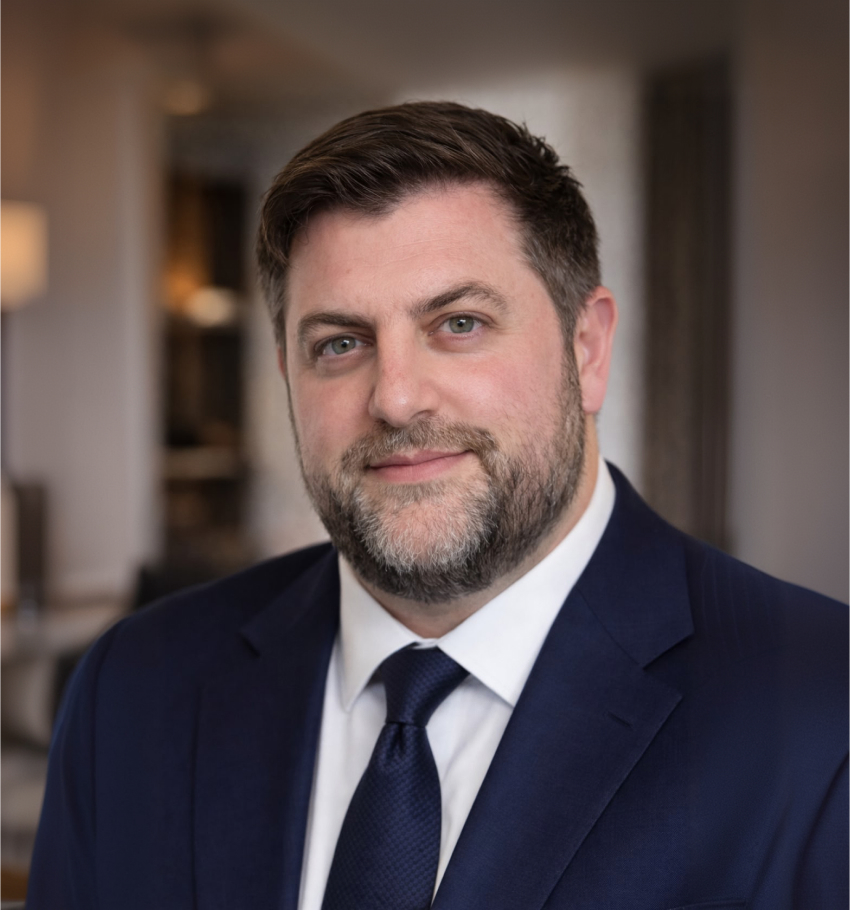
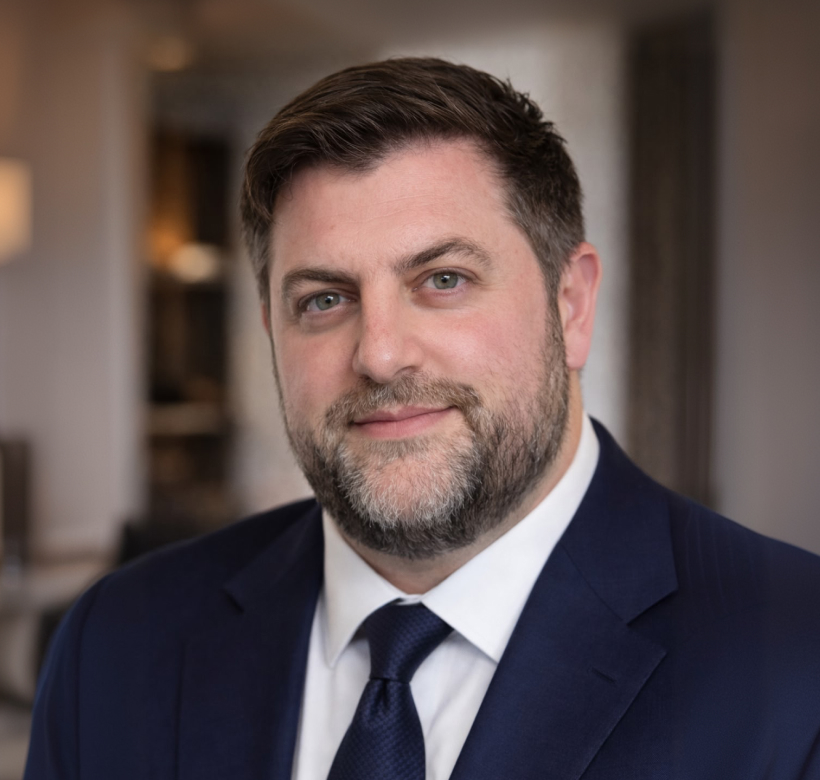
Fix leadership image scaling

diff --git a/components/sections/LeadershipSection.tsx b/components/sections/LeadershipSection.tsx
@@ -1,19 +1,11 @@
 import Image from "next/image";
 
-interface DesktopPlacement {
-  x: number; // px from Figma (negative = extends beyond container left/top)
-  y: number;
-  w: number; // image width at 1x
-  h: number; // image height at 1x
-}
-
 interface Leader {
   name: string;
   role: string;
   image: string;
   bio?: string;
   cropClass: string;       // object-position class for mobile/tablet fill approach
-  desktop: DesktopPlacement | null; // exact Figma placement at desktop; null = fill
 }
 
 const leaders: Leader[] = [
@@ -23,7 +15,6 @@ const leaders: Leader[] = [
     image: "/images/home/leader-vincent.jpg",
     bio: "Vincent brings over 40 years of experience across executive leadership, governance, private banking, acquisitions, and restructuring. Having served as CEO and board member for major financial and real estate institutions across Europe and the Middle East, he provides MSS with seasoned strategic direction and institutional oversight.",
     cropClass: "[object-position:50%_20%]",
-    desktop: { x: -1, y: -14, w: 417, h: 468 },
   },
   {
     name: "Husnain Nasir",
@@ -31,82 +22,55 @@ const leaders: Leader[] = [
     image: "/images/home/leader-husnain.jpg",
     bio: "Husnain brings over 25 years of experience across fintech, enterprise solutions, branchless banking, and telecom. With executive leadership roles tied to major digital finance and transformation initiatives in Pakistan, UAE, UK and Europe, he contributes deep expertise in strategy and investments.",
     cropClass: "leader-husnain-crop",
-    desktop: { x: -2, y: -134, w: 555, h: 740 },
   },
   {
     name: "Marc Lanz",
     role: "Head of Operations",
     image: "/images/home/leader-marc.jpg",
     cropClass: "[object-position:50%_45%]",
-    desktop: { x: -8, y: -22, w: 425, h: 455 },
   },
   {
     name: "Sandra Schaad",
     role: "Head of Compliance",
     image: "/images/home/leader-sandra.jpg",
     cropClass: "object-center",
-    desktop: null, // frame export already cropped to container dimensions
   },
 ];
 
 function LeaderCard({ leader }: { leader: Leader }) {
   return (
     <>
-      {/* Mobile + Tablet (< 1024px) — same wrapper-div placement as desktop; container clips */}
-      <div className="relative bg-[#0B1738] overflow-hidden h-[340px] lg:hidden">
-        {leader.desktop ? (
-          <div
-            style={{
-              position: "absolute",
-              left: `${leader.desktop.x}px`,
-              top: `${leader.desktop.y}px`,
-              width: `${leader.desktop.w}px`,
-              height: `${leader.desktop.h}px`,
-            }}
-          >
-            <Image fill src={leader.image} alt={leader.name} sizes={`${leader.desktop.w}px`} />
-          </div>
-        ) : (
-          <Image
-            fill
-            src={leader.image}
-            alt={leader.name}
-            className={`object-cover ${leader.cropClass}`}
-            sizes="(max-width: 768px) calc(100vw - 40px), calc(50vw - 60px)"
-          />
-        )}
+      {/* Mobile (< 768px): fluid card width, locked 410:390 image ratio, no stretching */}
+      <div className="relative bg-[#0B1738] overflow-hidden aspect-[41/39] md:hidden">
+        <Image
+          fill
+          src={leader.image}
+          alt={leader.name}
+          className={`object-cover ${leader.cropClass}`}
+          sizes="(max-width: 767px) min(calc(100vw - 40px), 420px)"
+        />
       </div>
 
-      {/* Desktop (≥ 1024px): exact Figma pixel placement
-          Wrapper div is positioned at the Figma x/y with Figma w/h.
-          fill Image fills that wrapper 100×100%. Container clips to frame. */}
+      {/* Tablet (768px–1023px): fixed card width, image fills a fixed frame */}
+      <div className="relative bg-[#0B1738] overflow-hidden h-[340px] hidden md:block lg:hidden">
+        <Image
+          fill
+          src={leader.image}
+          alt={leader.name}
+          className={`object-cover ${leader.cropClass}`}
+          sizes="320px"
+        />
+      </div>
+
+      {/* Desktop (≥ 1024px): fixed card width, image fills a fixed frame */}
       <div className="relative bg-[#0B1738] overflow-hidden h-[390px] hidden lg:block">
-        {leader.desktop ? (
-          <div
-            style={{
-              position: "absolute",
-              left: `${leader.desktop.x}px`,
-              top: `${leader.desktop.y}px`,
-              width: `${leader.desktop.w}px`,
-              height: `${leader.desktop.h}px`,
-            }}
-          >
-            <Image
-              fill
-              src={leader.image}
-              alt={leader.name}
-              sizes={`${leader.desktop.w}px`}
-            />
-          </div>
-        ) : (
-          <Image
-            fill
-            src={leader.image}
-            alt={leader.name}
-            className={`object-cover ${leader.cropClass}`}
-            sizes="410px"
-          />
-        )}
+        <Image
+          fill
+          src={leader.image}
+          alt={leader.name}
+          className={`object-cover ${leader.cropClass}`}
+          sizes="410px"
+        />
       </div>
 
       <h3
@@ -145,7 +109,7 @@ export default function LeadershipSection() {
             w-[320px]: fits 2 per row at 768px (672px available, 2×320+24=664px). ── */}
         <div className="mt-20 flex flex-wrap gap-x-6 gap-y-10 md:gap-y-12 lg:hidden">
           {leaders.map((leader) => (
-            <article key={leader.name} className="w-[320px] flex-none">
+            <article key={leader.name} className="w-full max-w-[420px] flex-none md:w-[320px] md:max-w-none">
               <LeaderCard leader={leader} />
             </article>
           ))}
